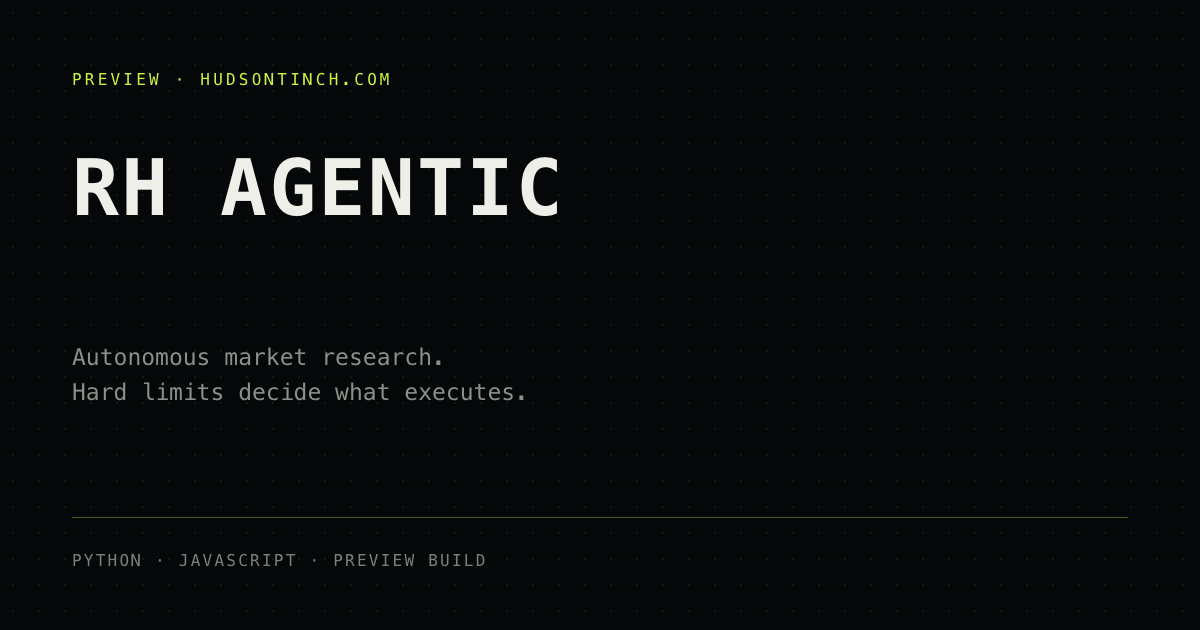
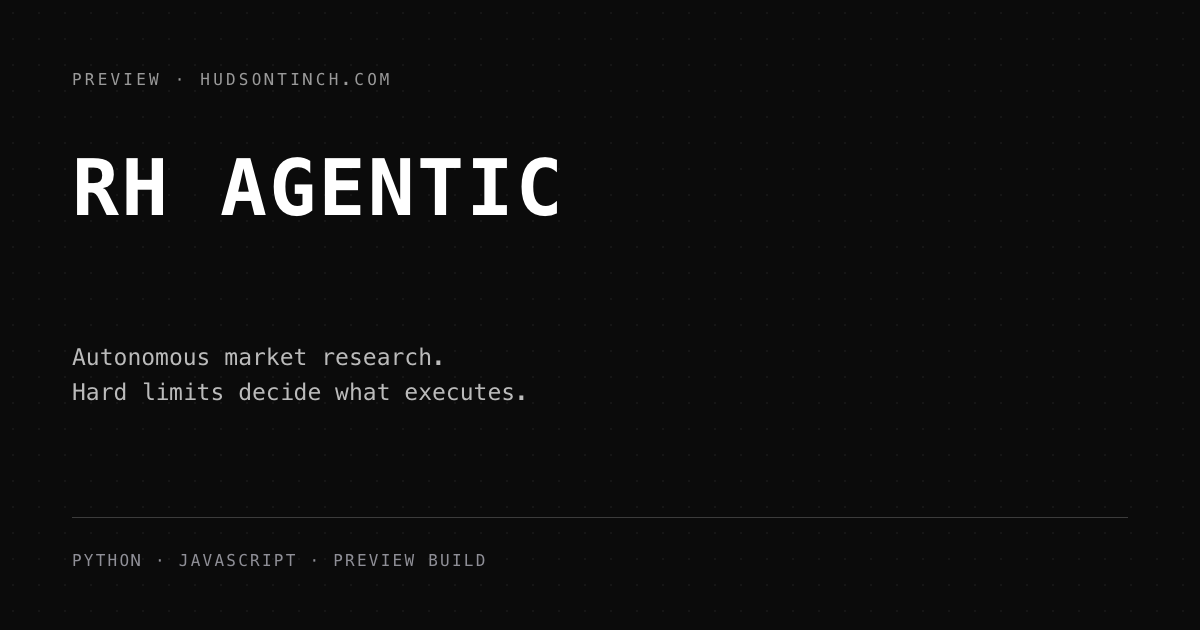
RH demo goes monochrome like the rest of the site
The acid-green console palette was the only colour anywhere on
hudsontinch.com — styles.css even labels its accent "monochrome" — so
the page read as an eyesore rather than a part of the site.

It now uses the site's own values (#0b0b0b ground, #000 panels,
rgba-white rules, #eaeaea ink). State is encoded in FORM rather than
hue: a cleared verdict is a filled chip, a denied one is outlined and
struck through, so the distinction survives without colour and without
relying on it. The share card follows.

Verified by sampling every computed colour on the rendered page — zero
values with any saturation remain.

Claude-Session: https://claude.ai/code/session_01DHH5r6TmdabLTZ9Sxnewum

diff --git a/demos/rh-agentic.html b/demos/rh-agentic.html
@@ -10,9 +10,9 @@
   <meta name="description" content="RH Agentic — a stripped-down preview of the operator console. The production system is considerably more capable; contact Hudson Tinch for a full walkthrough and real numbers.">
   <style>
     :root{
-      --bg:#060708; --panel:#0b0c0e; --line:#1b1d20; --line2:#26292d;
-      --text:#edefe8; --dim:#8b9088; --faint:#7b8078;
-      --acid:#c8f542; --green:#00c805; --red:#ff4d2e; --amber:#ffb000;
+      --bg:#0b0b0b; --panel:#000000; --line:rgba(255,255,255,.10); --line2:rgba(255,255,255,.17);
+      --text:#eaeaea; --dim:#9a9a9a; --faint:#6f6f6f;
+      --acid:#eaeaea; --green:#eaeaea; --red:#9a9a9a; --amber:#eaeaea;
       --mono:ui-monospace,"SF Mono",SFMono-Regular,Menlo,monospace;
       color-scheme:dark;
     }
@@ -20,26 +20,26 @@
     html{overflow-x:clip}
     body{margin:0;background:var(--bg);color:var(--text);
       font:13px/1.6 var(--mono);-webkit-font-smoothing:antialiased;
-      background-image:radial-gradient(circle,#121417 1px,transparent 1px);background-size:26px 26px}
+      background-image:radial-gradient(circle,#161616 1px,transparent 1px);background-size:26px 26px}
 
     /* ── preview notice: leads with the fact that the real one is better ── */
-    .pv{position:sticky;top:0;z-index:60;background:#12100a;
-      border-bottom:1px solid rgba(255,176,0,.4);
+    .pv{position:sticky;top:0;z-index:60;background:#101010;
+      border-bottom:1px solid rgba(255,255,255,.20);
       font:11.5px/1.6 var(--mono);padding:9px 18px;
       display:flex;gap:6px 13px;align-items:center;justify-content:center;flex-wrap:wrap;text-align:center}
-    .pv b{background:var(--amber);color:#100b00;padding:2px 8px;border-radius:2px;
+    .pv b{background:var(--amber);color:#0b0b0b;padding:2px 8px;border-radius:2px;
       font:700 10.5px var(--mono);letter-spacing:.11em;text-transform:uppercase;white-space:nowrap}
-    .pv span{color:#cfa94e}
+    .pv span{color:#9a9a9a}
     .pv em{font-style:normal;color:var(--text)}
     .pv a{color:var(--amber);text-decoration:underline;text-underline-offset:2px;white-space:nowrap}
 
     /* ── header, cloned from the console ── */
     header{position:sticky;top:0;z-index:50;display:flex;align-items:center;gap:14px;
-      padding:12px 22px;background:#060708;border-bottom:1px solid var(--line)}
+      padding:12px 22px;background:#0b0b0b;border-bottom:1px solid var(--line)}
     .brand{font:700 13px/1 var(--mono);letter-spacing:.18em;text-transform:uppercase;
       display:flex;align-items:center;gap:10px;color:var(--text)}
     .dot{width:7px;height:7px;border-radius:50%;background:var(--green);
-      box-shadow:0 0 9px rgba(0,200,5,.75)}
+      box-shadow:0 0 8px rgba(255,255,255,.45)}
     .agentact{font:10px var(--mono);letter-spacing:.13em;text-transform:uppercase;color:var(--dim)}
     .spacer{flex:1}
     .hmeta{font:10px var(--mono);letter-spacing:.1em;text-transform:uppercase;color:var(--faint)}
@@ -47,7 +47,7 @@
       border:1px solid var(--line2);color:var(--dim);background:none;padding:6px 11px;
       border-radius:2px;text-decoration:none;cursor:pointer}
     .hbtn:hover{color:var(--text);border-color:var(--faint)}
-    .hbtn.on{background:var(--acid);color:#0b0f00;border-color:var(--acid);font-weight:700}
+    .hbtn.on{background:var(--acid);color:#0b0b0b;border-color:var(--acid);font-weight:700}
 
     .wrap{max-width:1080px;margin:0 auto;padding:22px 20px 90px}
     .view[hidden]{display:none}
@@ -59,7 +59,7 @@
     .abtitle{font:650 11px var(--mono);letter-spacing:.1em;text-transform:uppercase;color:var(--text)}
     .abmeta{margin-left:auto;font:10px var(--mono);letter-spacing:.09em;color:var(--faint)}
     .abrow2{display:flex;align-items:center;gap:10px;margin-top:9px}
-    .abbar{flex:1;height:5px;background:#121417;border:1px solid var(--line)}
+    .abbar{flex:1;height:5px;background:#161616;border:1px solid var(--line)}
     .abbar i{display:block;height:100%;background:var(--acid);width:100%}
     .abpct{font:10px var(--mono);color:var(--dim);font-variant-numeric:tabular-nums}
 
@@ -69,7 +69,7 @@
     .cardtop{display:flex;justify-content:space-between;align-items:center;gap:12px;flex-wrap:wrap}
     .cardlabel{font:10px var(--mono);letter-spacing:.16em;text-transform:uppercase;color:var(--faint)}
     .led{width:7px;height:7px;border-radius:50%;display:inline-block;margin-right:6px}
-    .led.g{background:var(--green);box-shadow:0 0 8px rgba(0,200,5,.7)}
+    .led.g{background:var(--green);box-shadow:0 0 8px rgba(255,255,255,.45)}
     .readout{font:10px var(--mono);letter-spacing:.1em;text-transform:uppercase;color:var(--dim)}
     .hero-value{font:700 40px/1.1 var(--mono);margin:14px 0 2px;letter-spacing:.02em;
       font-variant-numeric:tabular-nums;color:var(--text)}
@@ -109,14 +109,14 @@
     .scroll{overflow-x:auto}
     .chip{display:inline-flex;align-items:center;padding:4px 9px;border:1px solid var(--line2);
       border-radius:9px;font:650 10px var(--mono);letter-spacing:.05em;white-space:nowrap}
-    .c-deny{color:var(--red);border-color:rgba(255,77,46,.42)}
-    .c-exec{color:var(--green);border-color:rgba(0,200,5,.42)}
+    .c-deny{color:#6f6f6f;border-color:rgba(255,255,255,.14);text-decoration:line-through;text-decoration-thickness:1px}
+    .c-exec{background:#eaeaea;color:#0b0b0b;border-color:#eaeaea;font-weight:700}
     .c-watch{color:var(--faint)}
 
     .fn{display:flex;flex-direction:column;gap:6px}
     .fnrow{display:grid;grid-template-columns:150px 1fr 44px;gap:12px;align-items:center}
     .fnrow span{font:10.5px var(--mono);letter-spacing:.1em;text-transform:uppercase;color:var(--faint)}
-    .fnbar{height:15px;background:#121417;border:1px solid var(--line)}
+    .fnbar{height:15px;background:#161616;border:1px solid var(--line)}
     .fnbar i{display:block;height:100%;background:var(--acid)}
     .fnrow b{font:700 12px var(--mono);color:var(--text);text-align:right;font-variant-numeric:tabular-nums}
 
@@ -127,18 +127,18 @@
     .step .n{font:700 21px/1 var(--mono);color:var(--acid)}
     .step h3{margin:0 0 5px;font:700 14px var(--mono);letter-spacing:.06em;color:var(--text)}
     .step p{margin:0;font:12.5px/1.68 var(--mono);color:var(--dim);max-width:74ch}
-    .step.gate{border-color:rgba(255,176,0,.38)}
+    .step.gate{border-color:rgba(255,255,255,.22)}
     .step.gate .n{color:var(--amber)}
 
     /* ── the ask ── */
-    .cta{margin-top:34px;border:1px solid var(--acid);background:#0d1002;padding:24px 26px}
+    .cta{margin-top:34px;border:1px solid var(--acid);background:#0a0a0a;padding:24px 26px}
     .cta h3{margin:0 0 9px;font:700 15px var(--mono);letter-spacing:.08em;color:var(--acid);
       text-transform:uppercase}
     .cta p{margin:0 0 16px;font:12.5px/1.72 var(--mono);color:var(--dim);max-width:74ch}
     .cta p b{color:var(--text);font-weight:600}
     .cta a{display:inline-block;font:700 11.5px var(--mono);letter-spacing:.12em;text-transform:uppercase;
-      background:var(--acid);color:#0b0f00;padding:11px 20px;border-radius:2px;text-decoration:none}
-    .cta a:hover{background:#d8ff5c}
+      background:var(--acid);color:#0b0b0b;padding:11px 20px;border-radius:2px;text-decoration:none}
+    .cta a:hover{background:#ffffff}
 
     @media (max-width:640px){
       .wrap{padding:18px 13px 70px}
